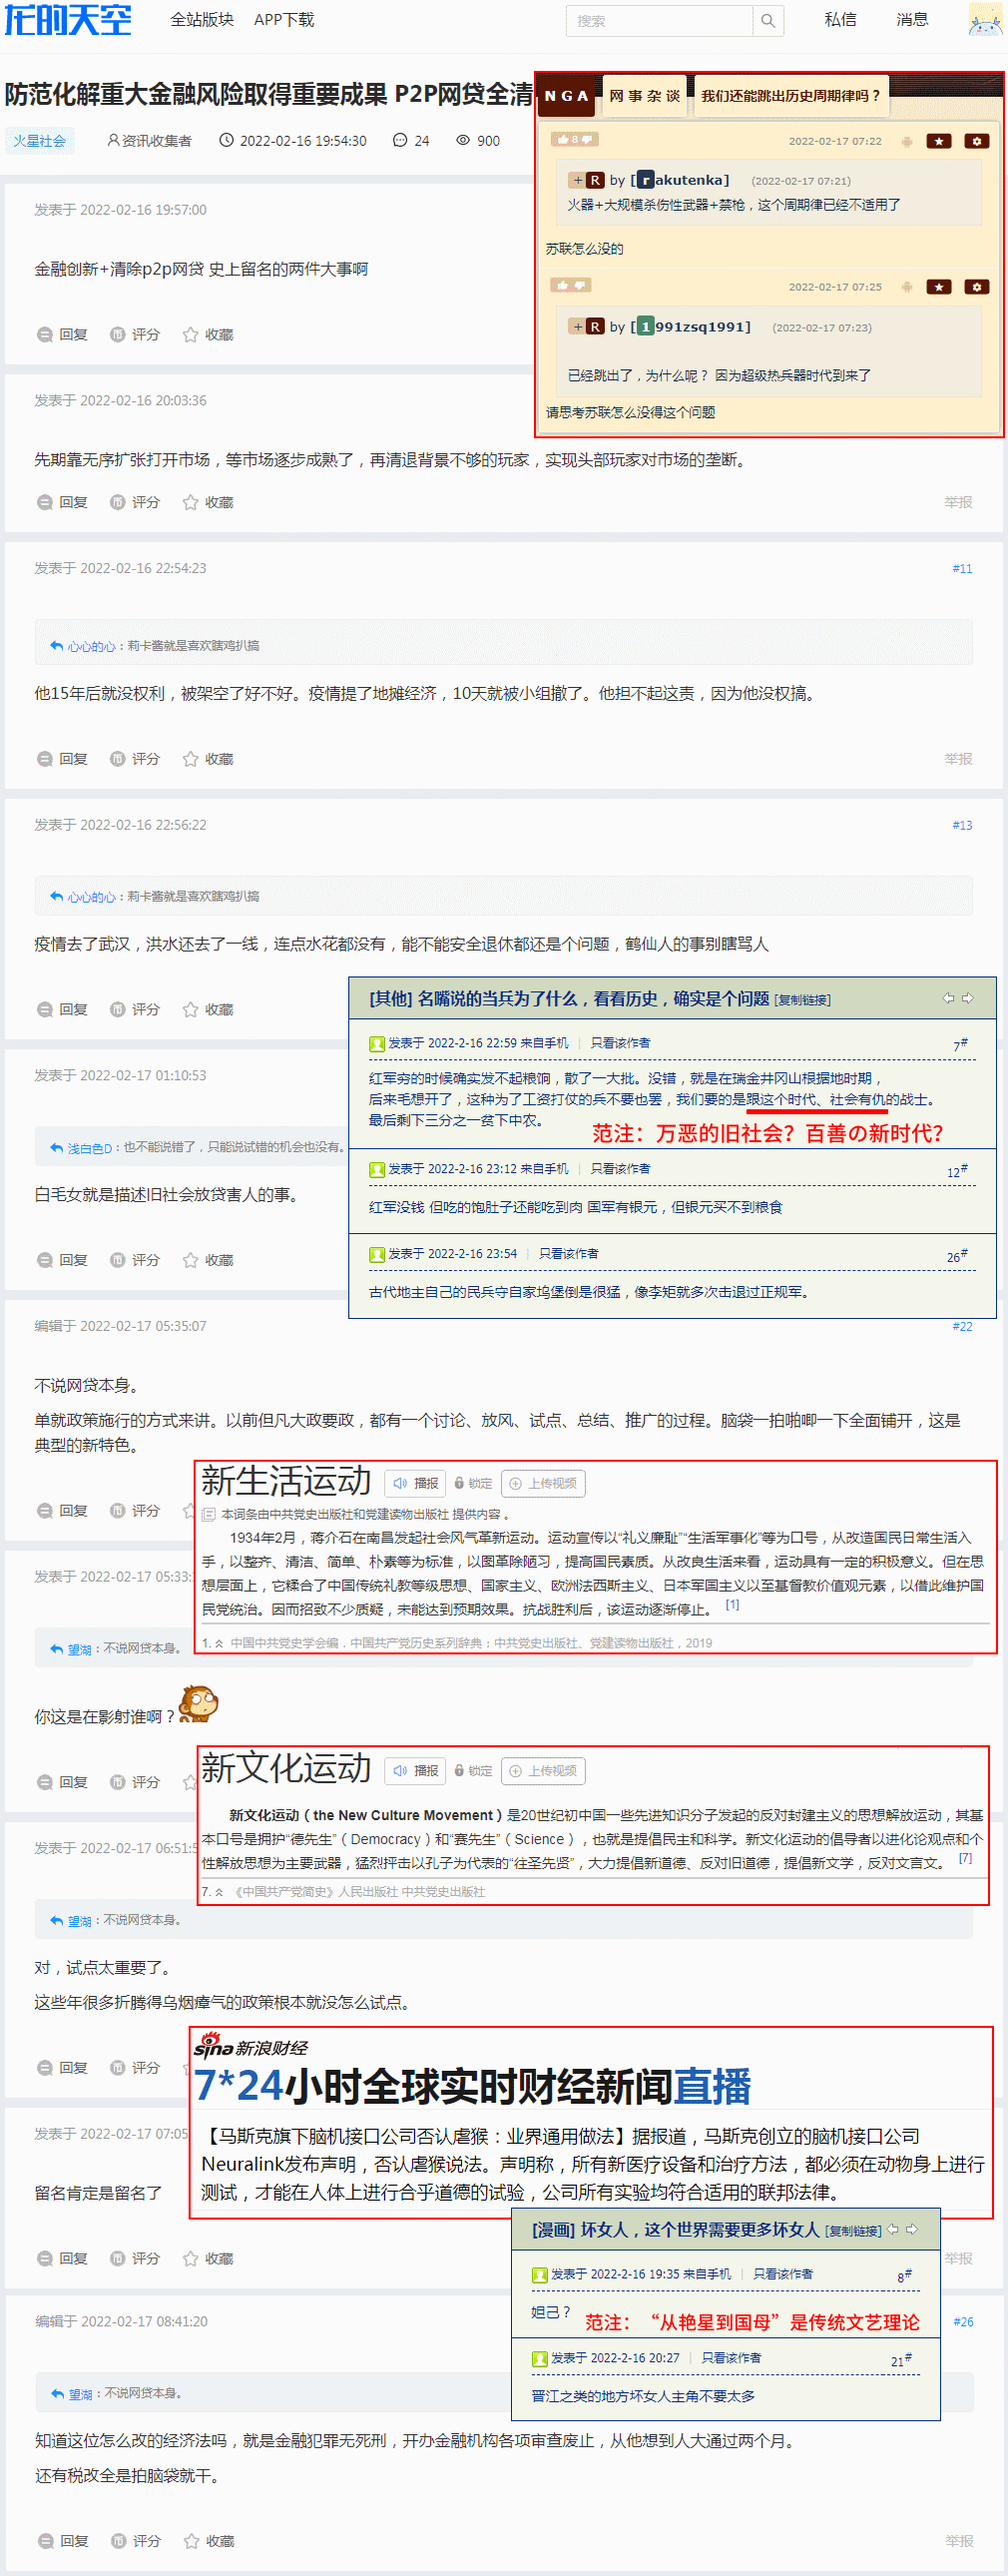
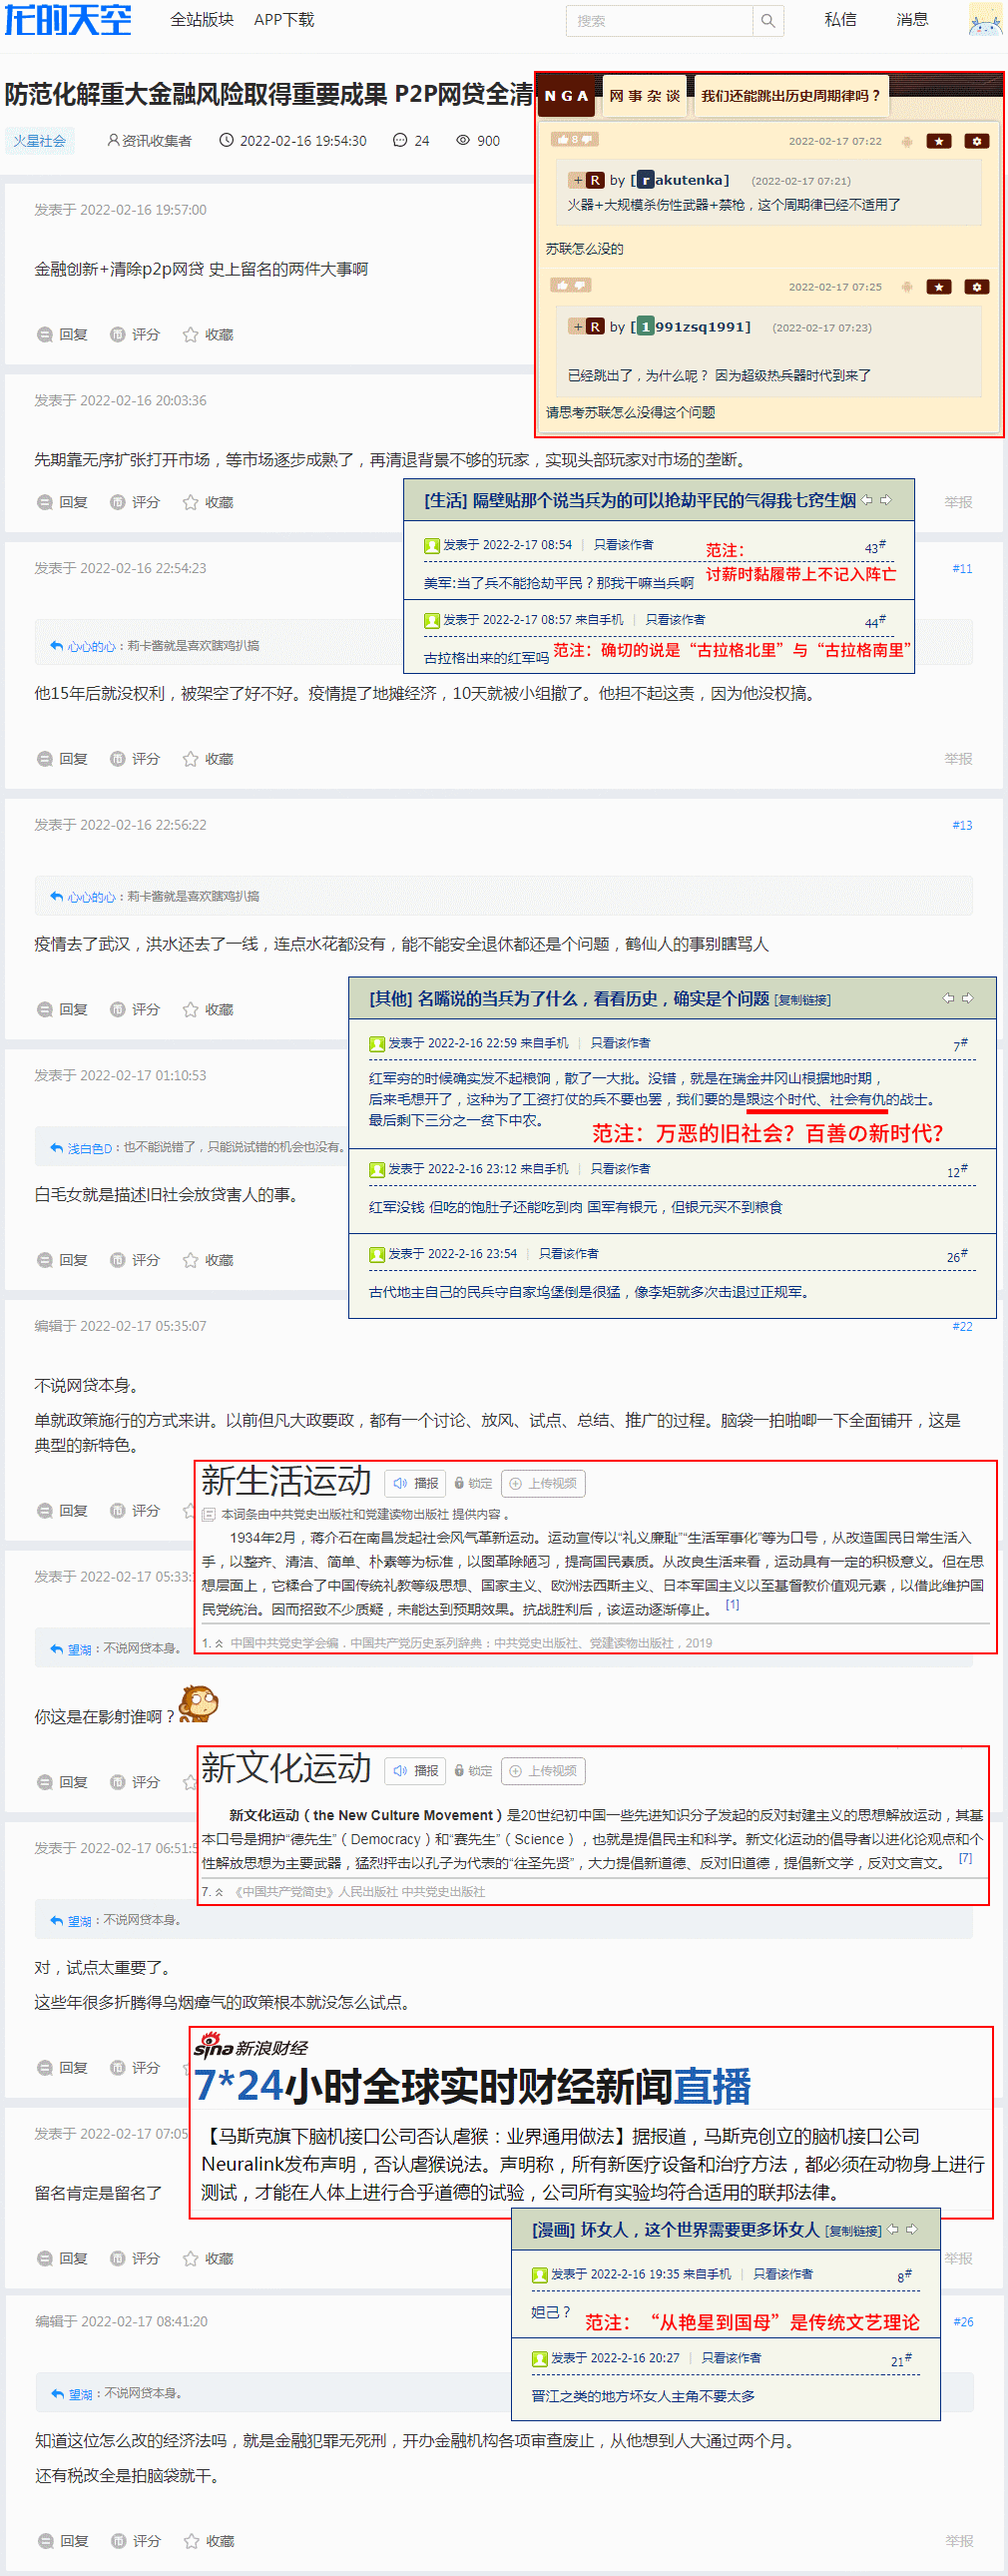
情报
Former-commit-id: fc6e622308f941d6af87de001d507a550959a9d5

Changed region(s): [[0.399, 0.186, 0.9208, 0.2791]]

diff --git a/at_douban/broadcast/20220215-003.html b/at_douban/broadcast/20220215-003.html
@@ -42,11 +42,17 @@
             <img src="image/20220215-003_007.png" />
         </figure>
         <p>前情提要：</p>
-        <ul>
-            <li><a class="alone" target="_blank" href="../../at_zhihu/qa/318.html">知乎问答№318：如果在部队里遇到很桀骜不驯的兵怎么办?</a></li>
-            <li><a class="alone" target="_blank" href="../../at_zhihu/remark/030.html">知乎评论＃030：如果在部队里遇到很桀骜不驯的兵怎么办?</a></li>
-            <li><a class="alone" target="_blank" href="20220209-002.html">“湘江难越，谁悲瑞金烟枪？赤水相逢，尽是茅台酒鬼”</a></li>
-        </ul>
+        <div class="image-group">
+            <ul>
+                <li><a class="alone" target="_blank" href="../../at_zhihu/qa/318.html">知乎问答№318：如果在部队里遇到很桀骜不驯的兵怎么办?</a></li>
+                <li><a class="alone" target="_blank" href="../../at_zhihu/remark/030.html">知乎评论＃030：如果在部队里遇到很桀骜不驯的兵怎么办?</a></li>
+                <li><a class="alone" target="_blank" href="../diary/20210719-001.html">“其实本来是八堂会审ぢぢ的，‘退役军人事务部’找个借口没去”</a></li>
+                <li><a class="alone" target="_blank" href="20220209-002.html">“湘江难越，谁悲瑞金烟枪？赤水相逢，尽是茅台酒鬼”</a></li>
+            </ul>
+            <figure>
+                <img src="image/20220215-003_008.png" />
+            </figure>
+        </div>
         <p>那么问题来了：2019年10月趾高气昂破门而入劈头就问「阅兵式你看了没有？咱中国现在今非昔比啦！」的家贼，到底是代表「国军」出场还是代表「共军」出场？抑或是混入「共军」队伍的「克格勃精英特务」？主持「阅兵式」的搭档德艺双馨贤妻良母的全票冻蒜人民领袖到底是「国军委座」还是「共军主席」？抑或是混入「国共两党」高层的「共产国际联络员」？</p>
         <p>至于「军休所」当中出没的哥布林到底是国军还是共军，抑或是苏联红军，在这个大背景之下，已经没有意义了。顶多问问到底是斯大林转世灵童派来的高加索红军还是托洛茨基转世灵童派来的墨西哥红军罢了。</p>
         <p>至于家贼拿我身份证银行卡干这干那，动辄找我这入不敷出的穷哔要钱订购整年「骆驼奶」，口称曾送来三千七百九十一箱半大额存单……那些第一手材料以前都备份过了，此处不再重复。</p>
